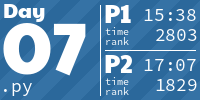
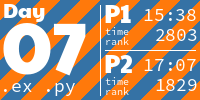
Solve 2024 day 07, elixir

diff --git a/README.md b/README.md
@@ -22,7 +22,7 @@
 <a href="2024/06.py">
   <img src=".aoc_tiles/tiles/2024/06.png" width="161px">
 </a>
-<a href="2024/07.py">
+<a href="2024/07.ex">
   <img src=".aoc_tiles/tiles/2024/07.png" width="161px">
 </a>
 <h1 align="center">
